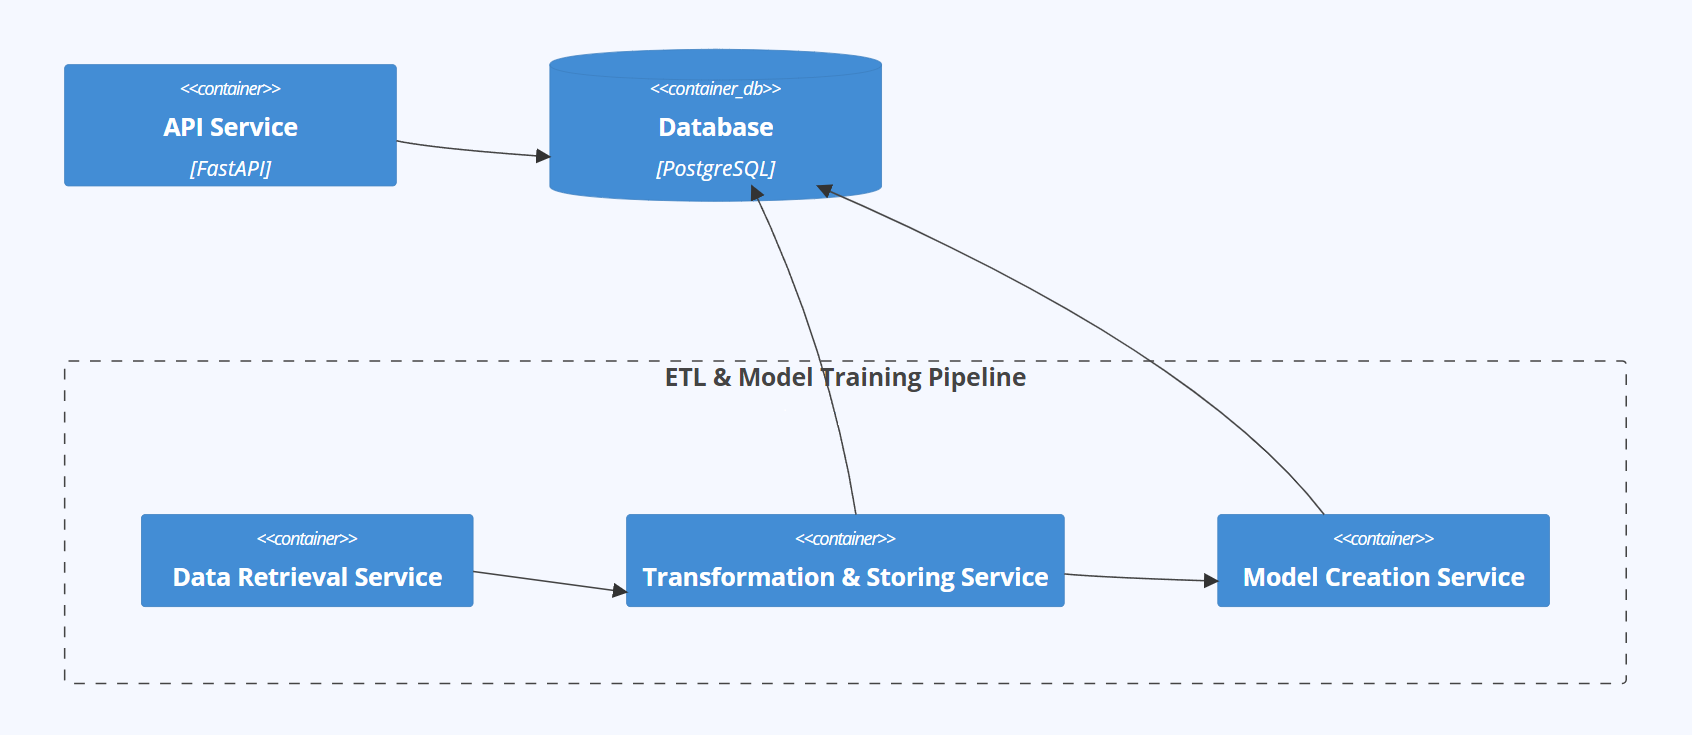
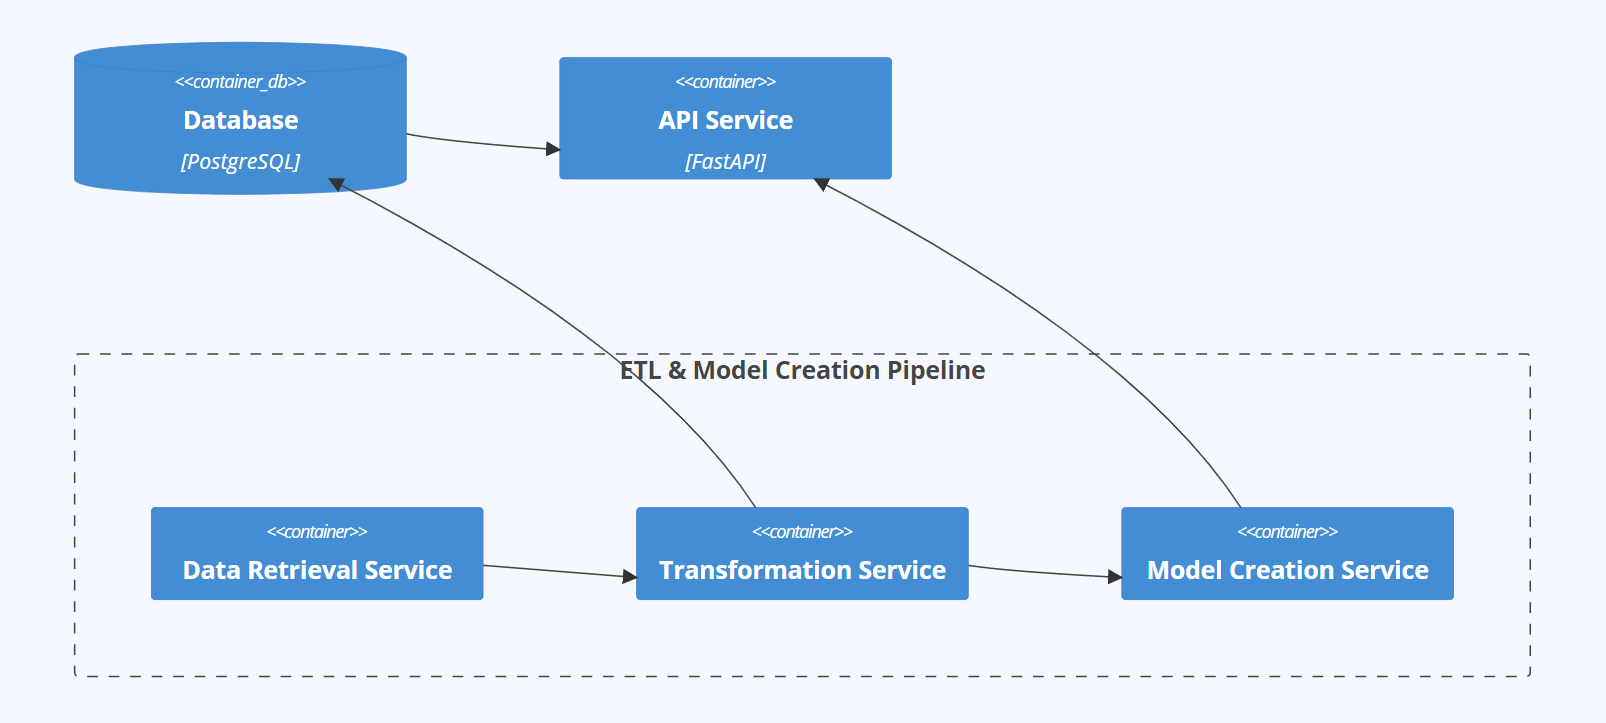
updadted

diff --git a/README.md b/README.md
@@ -3,7 +3,14 @@
 ## Project description
 The application was developed for job posters and job seekers to rectify a common problem encountered during job posting: an improved way of making estimates on salaries with a better degree of accuracy. 
 It establishes the lower and upper bounds for salary prediction for a given job in a specific country. The prediction can be further improved by providing information about the specific location within the country, the level of job experience, and the relevant job skills.<br>
-The development of the application was foccused mainly on the ETL process that is relevant for Data Engineering experience. The application also leverages a Machine Learning (ML) model to give end-users an estimate of their probable salaries, leading towards better, more informative career choices. We provided a simple yet effficient API interface to access the trained model and we zoomed specifically on Data-related job postings.
+The development of the application was mainly focused on the ETL process, which is relevant for Data Engineering experience. It collects job offers from various data sources and then transforms this data in a uniform manner. Special emphasis is placed on standardizing various salary data to a common basis, in this case, as a yearly salary figure. Additionally, it attempts to extract required/desired job skills and job experience from the job descriptions. The data model is built in a way that enables the addition of new data sources, as it includes space for future job data that is currently unused but was found in data sources that are not currently utilized, such as detailed location information and a section to save job categories.
+The application also leverages a Machine Learning model to give end-users an estimate of their probable salaries, leading towards better, more informative career choices. It creates two models, one for the minimum and one the the maximum We provided a simple yet effficient API interface to access the trained model and we zoomed specifically on Data-related job postings.
+### Data Sources
+At the moment the application uses the following data sources:
+- muse.com
+- okjob.io
+- reed.co.uk
+More data sources can be added in the future.
 ## Installtion Instructions
 ### Linux and MacOs
 Run the setup script from the project´s root folder:
@@ -31,18 +38,21 @@ You can use the PowerShell script to install from the project's root folder. Not
 .\setup_jobmarket.ps1
 ```
 ## System Architecture
-The project is divied in five mircoservices:
-- postgres database server (prebuild image from dockerhub)
+The project is divided in five mircoservices, each built as a Docker container.:
+- PostgreSQL database server (prebuild image from dockerhub)
 - pipeline for ETL and model creation:
   - data retrieaval service for collecting the raw data
-  - transforamtion service which transforms the raw data and saves them in a postgres database
+  - transforamtion service which transforms the raw data and saves them in a PostgreSQL database
   - model creation service that uses the transformed data to create models for the salaray prediction
 - api server that uses the created models and the transformed data to deliver a salaray prediction
 ![System Architecture](report/images/SystemArchitecture.png)
 ## Data Flow
+The data retrieval service extracts the raw data form various data sources and saves them in a local folder. The transform server then loads the data from the local folder and 
+saves the transformed data in a PostgreSQL database.
 ![Data Flow](report/images/DataFlow1.png)
 ![Data Flow](report/images/DataFlow2.png)
 ## Data Model
+The transformed data will be saved in a PostgreSQL database according to this schema:
 ![Data Model](report/images/PostgresSchema.png)
 
 ## Manual building the docker images
